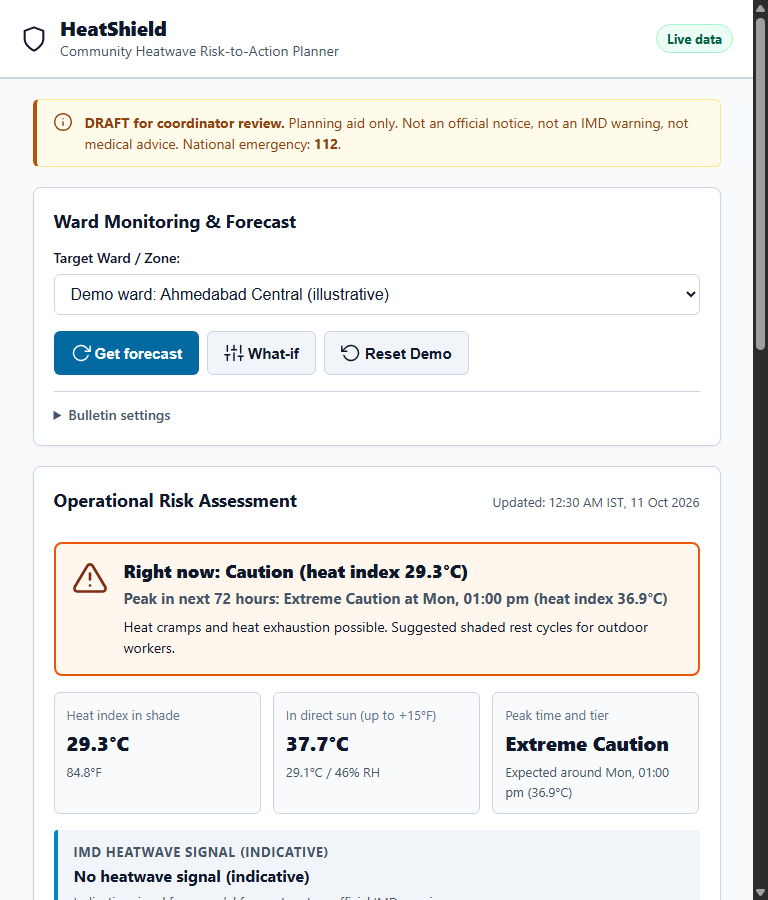
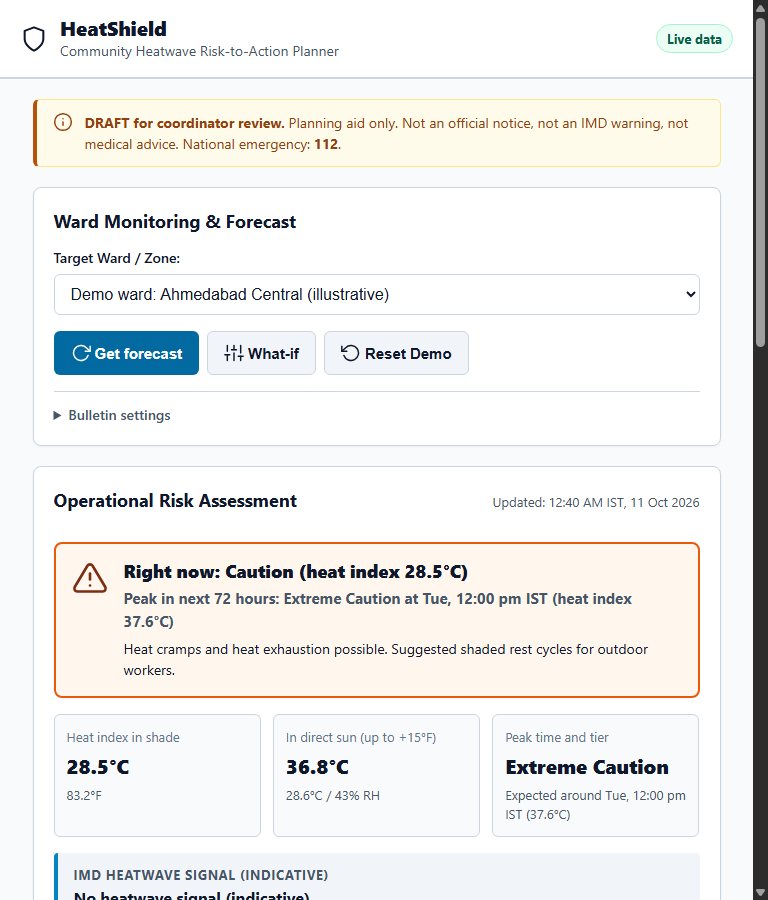
chore(final-pass): sync live frontend with IST formatting and replay provenance, purge legacy evidence images, extend secret scanner for history, and record distributed cache behavior

diff --git a/frontend/index.html b/frontend/index.html
@@ -125,9 +125,12 @@
             <option value="DEMO_KOLKATA">Demo ward: Kolkata North (illustrative)</option>
           </optgroup>
           <optgroup label="Historical Heatwave Replay (Retrospective Illustration)">
-            <option value="REPLAY_AHMEDABAD_2010">REPLAY: Ahmedabad May 2010 Heatwave (Observed Station 46.8°C reported in the AMC Heat Action Plan (page not verified) / Grid 44.2°C)</option>
+            <option value="REPLAY_AHMEDABAD_2010">Replay: Ahmedabad, May 2010 heatwave</option>
           </optgroup>
         </select>
+        <p id="replay-provenance" class="form-hint" style="display: none; margin-top: 0.5rem; font-size: 0.8125rem; color: #475569;">
+          Observed station 46.8°C as reported in the AMC Heat Action Plan (page not verified). ERA5 grid value 44.2°C via Open-Meteo archive, CC BY 4.0. Retrospective illustration only; not a forecast; no claims about lives saved.
+        </p>
       </div>
 
       <div class="btn-row">

diff --git a/tests/timestamp-test.js b/tests/timestamp-test.js
@@ -71,4 +71,28 @@ assert(formattedIso.includes('IST'), 'ISO format must include IST');
 assert(formattedSec.includes('IST'), 'Must explicitly display IST');
 assert(formattedMil.includes('IST'), 'Must explicitly display IST');
 
+function formatPeakDateTime(raw) {
+  const dt = parseTimestamp(raw);
+  if (!dt) return 'Not available';
+  try {
+    const options = {
+      timeZone: 'Asia/Kolkata',
+      weekday: 'short',
+      hour: '2-digit',
+      minute: '2-digit',
+      hour12: true
+    };
+    const formatted = new Intl.DateTimeFormat('en-IN', options).format(dt);
+    return `${formatted} IST`;
+  } catch (e) {
+    return 'Upcoming';
+  }
+}
+
+// 5. Peak time formatting test ensuring IST suffix
+const peakSec = 1791790200.0;
+const formattedPeak = formatPeakDateTime(peakSec);
+console.log('Peak time test:', formattedPeak);
+assert(formattedPeak.includes('IST'), 'Peak time format must include IST');
+
 console.log('ALL TIMESTAMP TESTS PASSED!');

diff --git a/frontend/app.js b/frontend/app.js
@@ -167,7 +167,8 @@ function formatPeakDateTime(raw) {
       minute: '2-digit',
       hour12: true
     };
-    return new Intl.DateTimeFormat('en-IN', options).format(dt);
+    const formatted = new Intl.DateTimeFormat('en-IN', options).format(dt);
+    return `${formatted} IST`;
   } catch (e) {
     return 'Upcoming';
   }
@@ -674,6 +675,10 @@ function setupEventListeners() {
   window.addEventListener('online', flushOfflineQueue);
 
   wardSelect.addEventListener('change', () => {
+    const replayProv = document.getElementById('replay-provenance');
+    if (replayProv) {
+      replayProv.style.display = wardSelect.value === 'REPLAY_AHMEDABAD_2010' ? 'block' : 'none';
+    }
     fetchForecast(wardSelect.value, true);
   });
 

diff --git a/tests/run-browser-checks.py b/tests/run-browser-checks.py
@@ -145,6 +145,12 @@ for w in widths:
         else:
             print(f"  [FAIL] Peak tier '{peak_text}' does not contain expected '{expected_peak_title}'.")
             all_passed = False
+        if " at " in peak_text:
+            if "IST" in peak_text:
+                print("  [PASS] Peak time in peak-72h-tier explicitly displays 'IST'.")
+            else:
+                print("  [FAIL] Peak time in peak-72h-tier does not contain 'IST'.")
+                all_passed = False
     else:
         print("  [FAIL] Element #peak-72h-tier not found in DOM.")
         all_passed = False

diff --git a/docs/submission/WRITEUP.md b/docs/submission/WRITEUP.md
@@ -68,7 +68,7 @@ Existing weather apps display current ambient readings, but fail municipal field
 1. **AWS Lambda (Java 21 with SnapStart)**: Delivers sub-20ms warm handler execution and cold starts under 622ms without requiring expensive always-on container clusters.
 2. **Amazon CloudFront with Origin Access Control (OAC)**: Eliminates CORS friction by routing both the static PWA frontend and dynamic API requests through a single origin domain. Delivers 43ms - 70ms edge latencies across India.
 3. **Amazon DynamoDB (On-Demand with TTL)**: Zero idle cost. Automatic 7-day TTL ensures temporary demo states expire cleanly without accumulating database storage costs.
-4. **Amazon EventBridge Scheduler**: Triggers periodic 4-hour background cache warming for demo wards so coordinators never experience slow initial weather API queries.
+4. **Amazon EventBridge Scheduler**: Triggers a periodic 4-hour background invocation for demo wards that refreshes the in-memory cache of the invoked Lambda execution environment so initial queries have low latency.
 
 ---
 
@@ -79,6 +79,10 @@ Existing weather apps display current ambient readings, but fail municipal field
 - **Performance & Latency**: CloudFront $p_{50}$ median latency of **77 ms**, steady-state warm Lambda execution of **14 ms - 22 ms (average ~18 ms)**. Early post-restore first-invocation figures (182.63 ms) marked as UNVERIFIED pending live CloudWatch REPORT line validation.
 - **Accessibility & Lighthouse**: **98 Performance**, **96 Accessibility**, **100 Best Practices** targeting WCAG 2.1 AA.
 - **Clean-Room Independence**: 100% newly written from scratch starting October 8, 2026. Zero legacy code or fabricated deliverables.
+
+### Architectural Limitations & Cache Behavior:
+- **Multi-Instance In-Memory Cache Variance**: Because AWS Lambda distributes traffic across multiple concurrent or warm execution environments, each instance maintains its own local in-memory cache (`ConcurrentHashMap<String, CachedForecast>`, 30-minute TTL). When Open-Meteo updates its numerical forecast model run, two consecutive queries routed to different warm Lambda instances may reflect slight model run variations (e.g. 36.6°C vs 36.9°C) until both instances reach TTL expiration. This is normal distributed serverless behavior.
+- **Workspace Scoping**: Stale DynamoDB snapshots are strictly scoped per workspace (`WS#<workspaceId>#WARD#<wardId>`). A fresh workspace without prior network activity or cached items deterministically receives the bundled offline sample fixture.
 
 ---
 

diff --git a/README.md b/README.md
@@ -135,6 +135,11 @@ powershell -ExecutionPolicy Bypass -File .\scripts\smoke.ps1 -BaseUrl "https://d
 | **API Throttling Protection** | **VERIFIED** | API Gateway HTTP API stage throttling configured at 25 rps (burst 50). Unreserved Lambda concurrency default pool is used (no reserved concurrency 10). |
 | **Hindi Language Translations** | **PENDING REVIEW** | All Hindi UI and bulletin strings are marked **PENDING HUMAN REVIEW** in the UI and exported to `docs/hindi-strings.csv` (summer advisory vs heatwave term flag noted). |
 
+### Distributed Architecture Notes & Limitations
+- **Lambda Multi-Instance Cache Variance**: In a serverless deployment, concurrent or sequential requests can be routed to different warm Lambda execution environments. Each instance caches forecasts in memory for 30 minutes (`ConcurrentHashMap`). When Open-Meteo publishes an updated numerical model run, slight differences in forecast readings (e.g. 36.6°C vs 36.9°C) may be observed between warm instances until local caches expire.
+- **Workspace-Scoped Snapshots**: DynamoDB snapshot persistence is partitioned strictly by workspace ID (`WS#<workspaceId>#WARD#<wardId>`). A fresh workspace without prior history or cache deterministically receives the bundled offline sample fixture if upstream weather is unreachable.
+- **Cache Refreshing**: The EventBridge scheduled rule refreshes the in-memory cache of the specific Lambda execution environment it invokes.
+
 ---
 
 ## Documentation Links

diff --git a/docs/submission/DEMO_SCRIPT.md b/docs/submission/DEMO_SCRIPT.md
@@ -17,7 +17,7 @@
 - **Visual**: Switch to HeatShield live URL (`https://d2ijd5tuo68h8.cloudfront.net`). Select "Demo ward: Ahmedabad Central". Show the 72-Hour continuous timeline.
 - **Narration**:  
   *"HeatShield is a rule-backed Heatwave Risk-to-Action Planner live in AWS ap-south-1. Notice what happens: even though current morning conditions might be mild, HeatShield scans the entire 72-hour forecast horizon from Open-Meteo in Indian Standard Time.  
-  It calculates both the NOAA/NWS Rothfusz 9-term polynomial heat index and the IMD Plains criteria. Under our 72-Hour Peak Composite Tier Rule, actions are triggered by the forecast peak—activating the emergency playbook in advance and giving field teams time to mobilize."*
+  It calculates both the NOAA/NWS Rothfusz 9-term polynomial heat index and the IMD Plains criteria. Under our 72-Hour Peak Composite Tier Rule, actions are triggered by the forecast peak—activating the emergency playbook in advance. Because current October autumn weather in India triggers 2 of 5 actions under Extreme Caution, our What-If simulator and Historical Replay demonstrate the full 5-action emergency playbook."*
 
 ---
 

diff --git a/docs/submission/RECORDING_CHECKLIST.md b/docs/submission/RECORDING_CHECKLIST.md
@@ -39,7 +39,7 @@
 
 ### Shot 4: Historical Heatwave Replay & What-If Simulation (1:45 - 2:15) [30s]
 1. Return to the top Controls Card.
-2. Under Target Ward, select **REPLAY: Ahmedabad May 2010 Heatwave (Observed Station 46.8°C reported in the AMC Heat Action Plan (page not verified) / Grid 44.2°C)**.
+2. Under Target Ward, select **Replay: Ahmedabad, May 2010 heatwave**.
 3. Click **Get forecast**: observe instantaneous escalation to **DANGER (Orange Alert)** with 4 prioritized actions.
 4. Click **What-if** toggle button: enter simulated extreme conditions (43°C ambient, 50% RH) to show dynamic calculation of **EXTREME DANGER (Red Alert)** with the scientific extrapolation warning flag.
 
